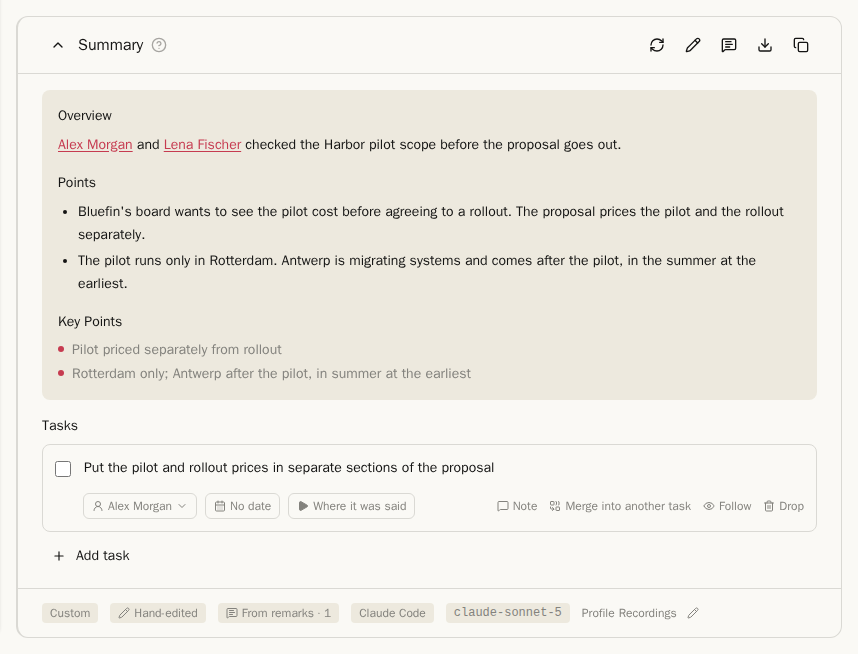
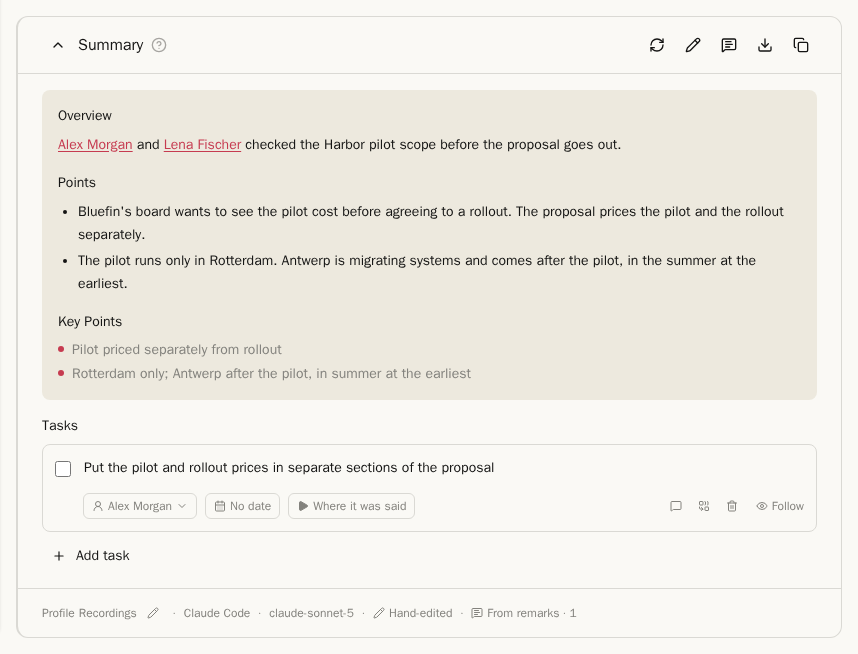
docs(user-guide): retake task row and card footer screenshots
The task rows, summary footer, transcript footer and remarks dialog changed in
this branch, so the guide shows the new layout. The summary guide describes the
warning band and the provenance line, and its Czech text uses the app's names
for the stale-names warning and Regenerate.

Changed region(s): [[0.0606, 0.9174, 0.7879, 0.948], [0.5758, 0.7645, 0.9394, 0.7951]]

diff --git a/content/docs/user-guide/summaries-and-tasks.md b/content/docs/user-guide/summaries-and-tasks.md
@@ -18,7 +18,7 @@ The manual picker can use any available profile for that kind of item. Starting 
 
 While it runs, the card shows how long it has taken and, for a multi-pass summary, how far it is: `Summarizing — 1/3 passes`, then `Merging 3 passes…`. You can leave the page; the summary keeps going and is there when you come back.
 
-Summaries are written in Markdown, so headings, lists and tables show as such. **Key Points** are the last section inside the same summary box. Copied and downloaded Markdown keeps that order: summary text, then key points. Provider, model, multi-pass badge and warnings with their actions are in the footer below the tasks.
+Summaries are written in Markdown, so headings, lists and tables show as such. **Key Points** are the last section inside the same summary box. Copied and downloaded Markdown keeps that order: summary text, then key points. The footer below the tasks shows warnings with their actions in an amber band, then one line with the profile, provider, model and markers such as multi-pass or **Hand-edited**.
 
 If you correct names in the transcript after the summary was written, the summary shows **May contain stale names or terms** with a **Regenerate** link. The workflow strip also marks work made from older inputs as **Outdated**.
 
@@ -52,7 +52,7 @@ Chatterbox includes summary instructions such as **General Summary**, **Meeting 
 
 ![A summary made with two of three passes](images/summary-multi-pass.png)
 
-A profile can run a summary 2 to 5 times and merge the results, so a point only one pass noticed still makes it into the summary. It costs about as many times more as there are passes. The footer says **multi-pass · 3**. When a pass failed and the summary was made from fewer, the badge turns amber, for example **multi-pass · 2/3**; hover over it to see why.
+A profile can run a summary 2 to 5 times and merge the results, so a point only one pass noticed still makes it into the summary. It costs about as many times more as there are passes. The footer says **multi-pass · 3**. When a pass failed and the summary was made from fewer, the marker turns amber, for example **multi-pass · 2/3**; hover over it to see why.
 
 <span id="tasks-from-a-summary" />
 <span id="tasks-across-items" />
